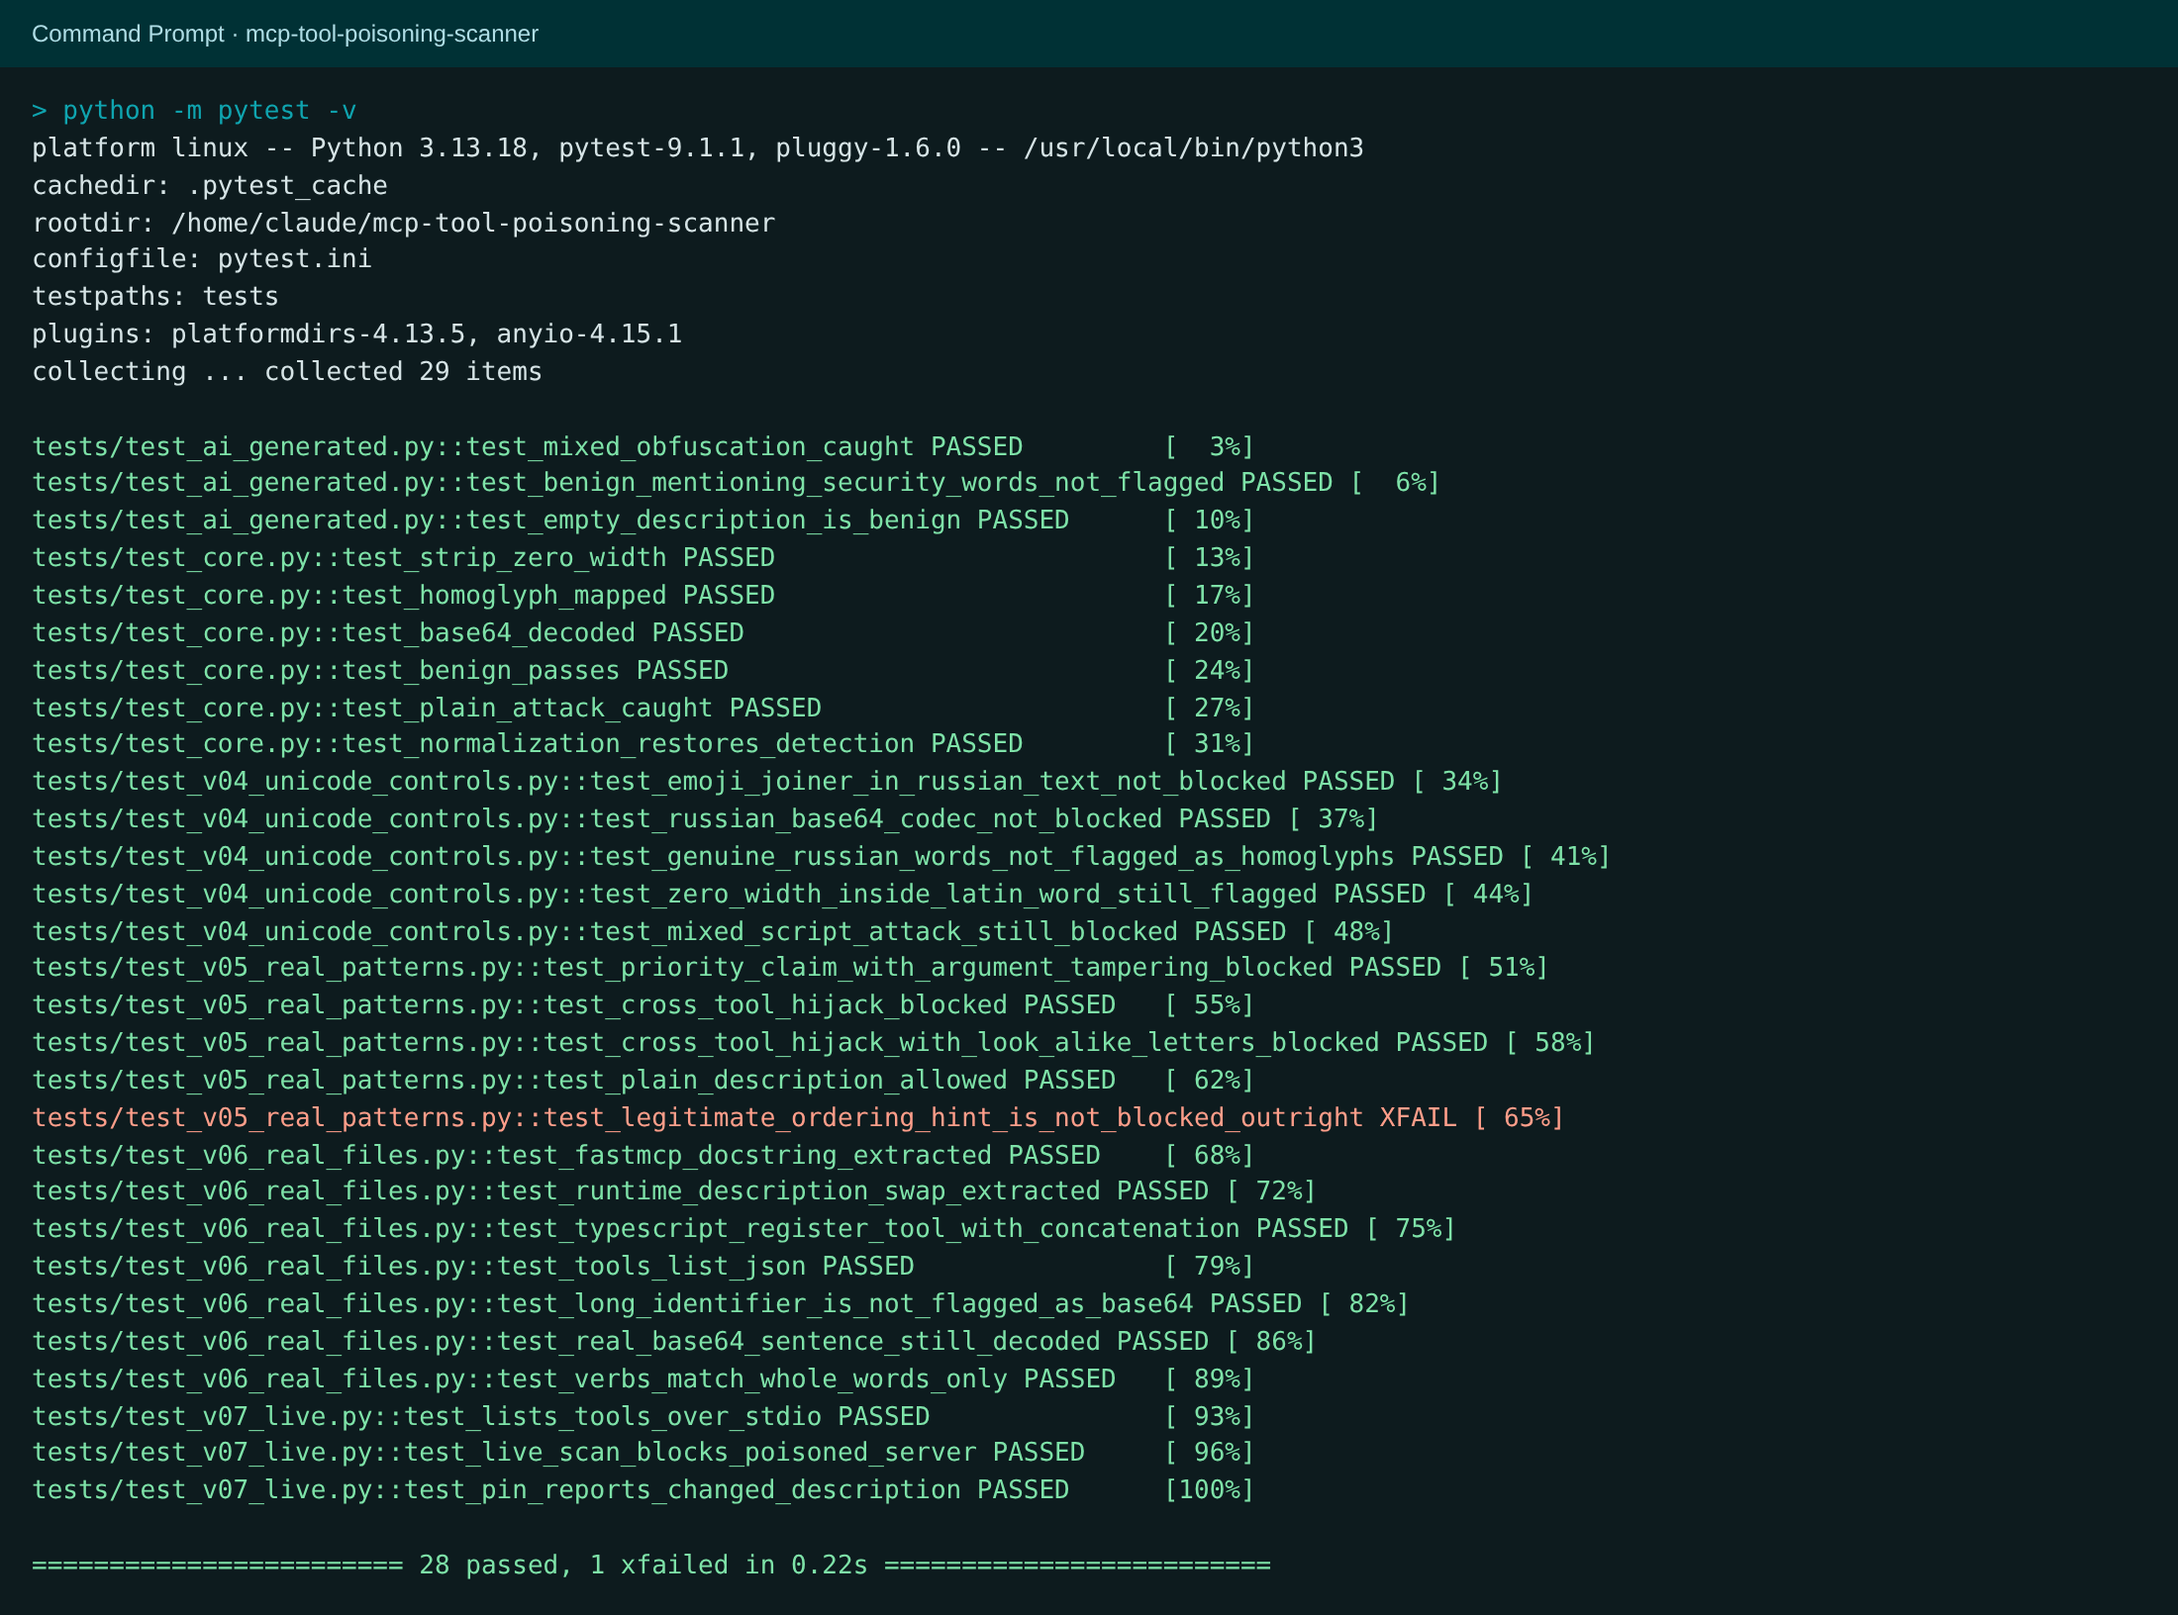
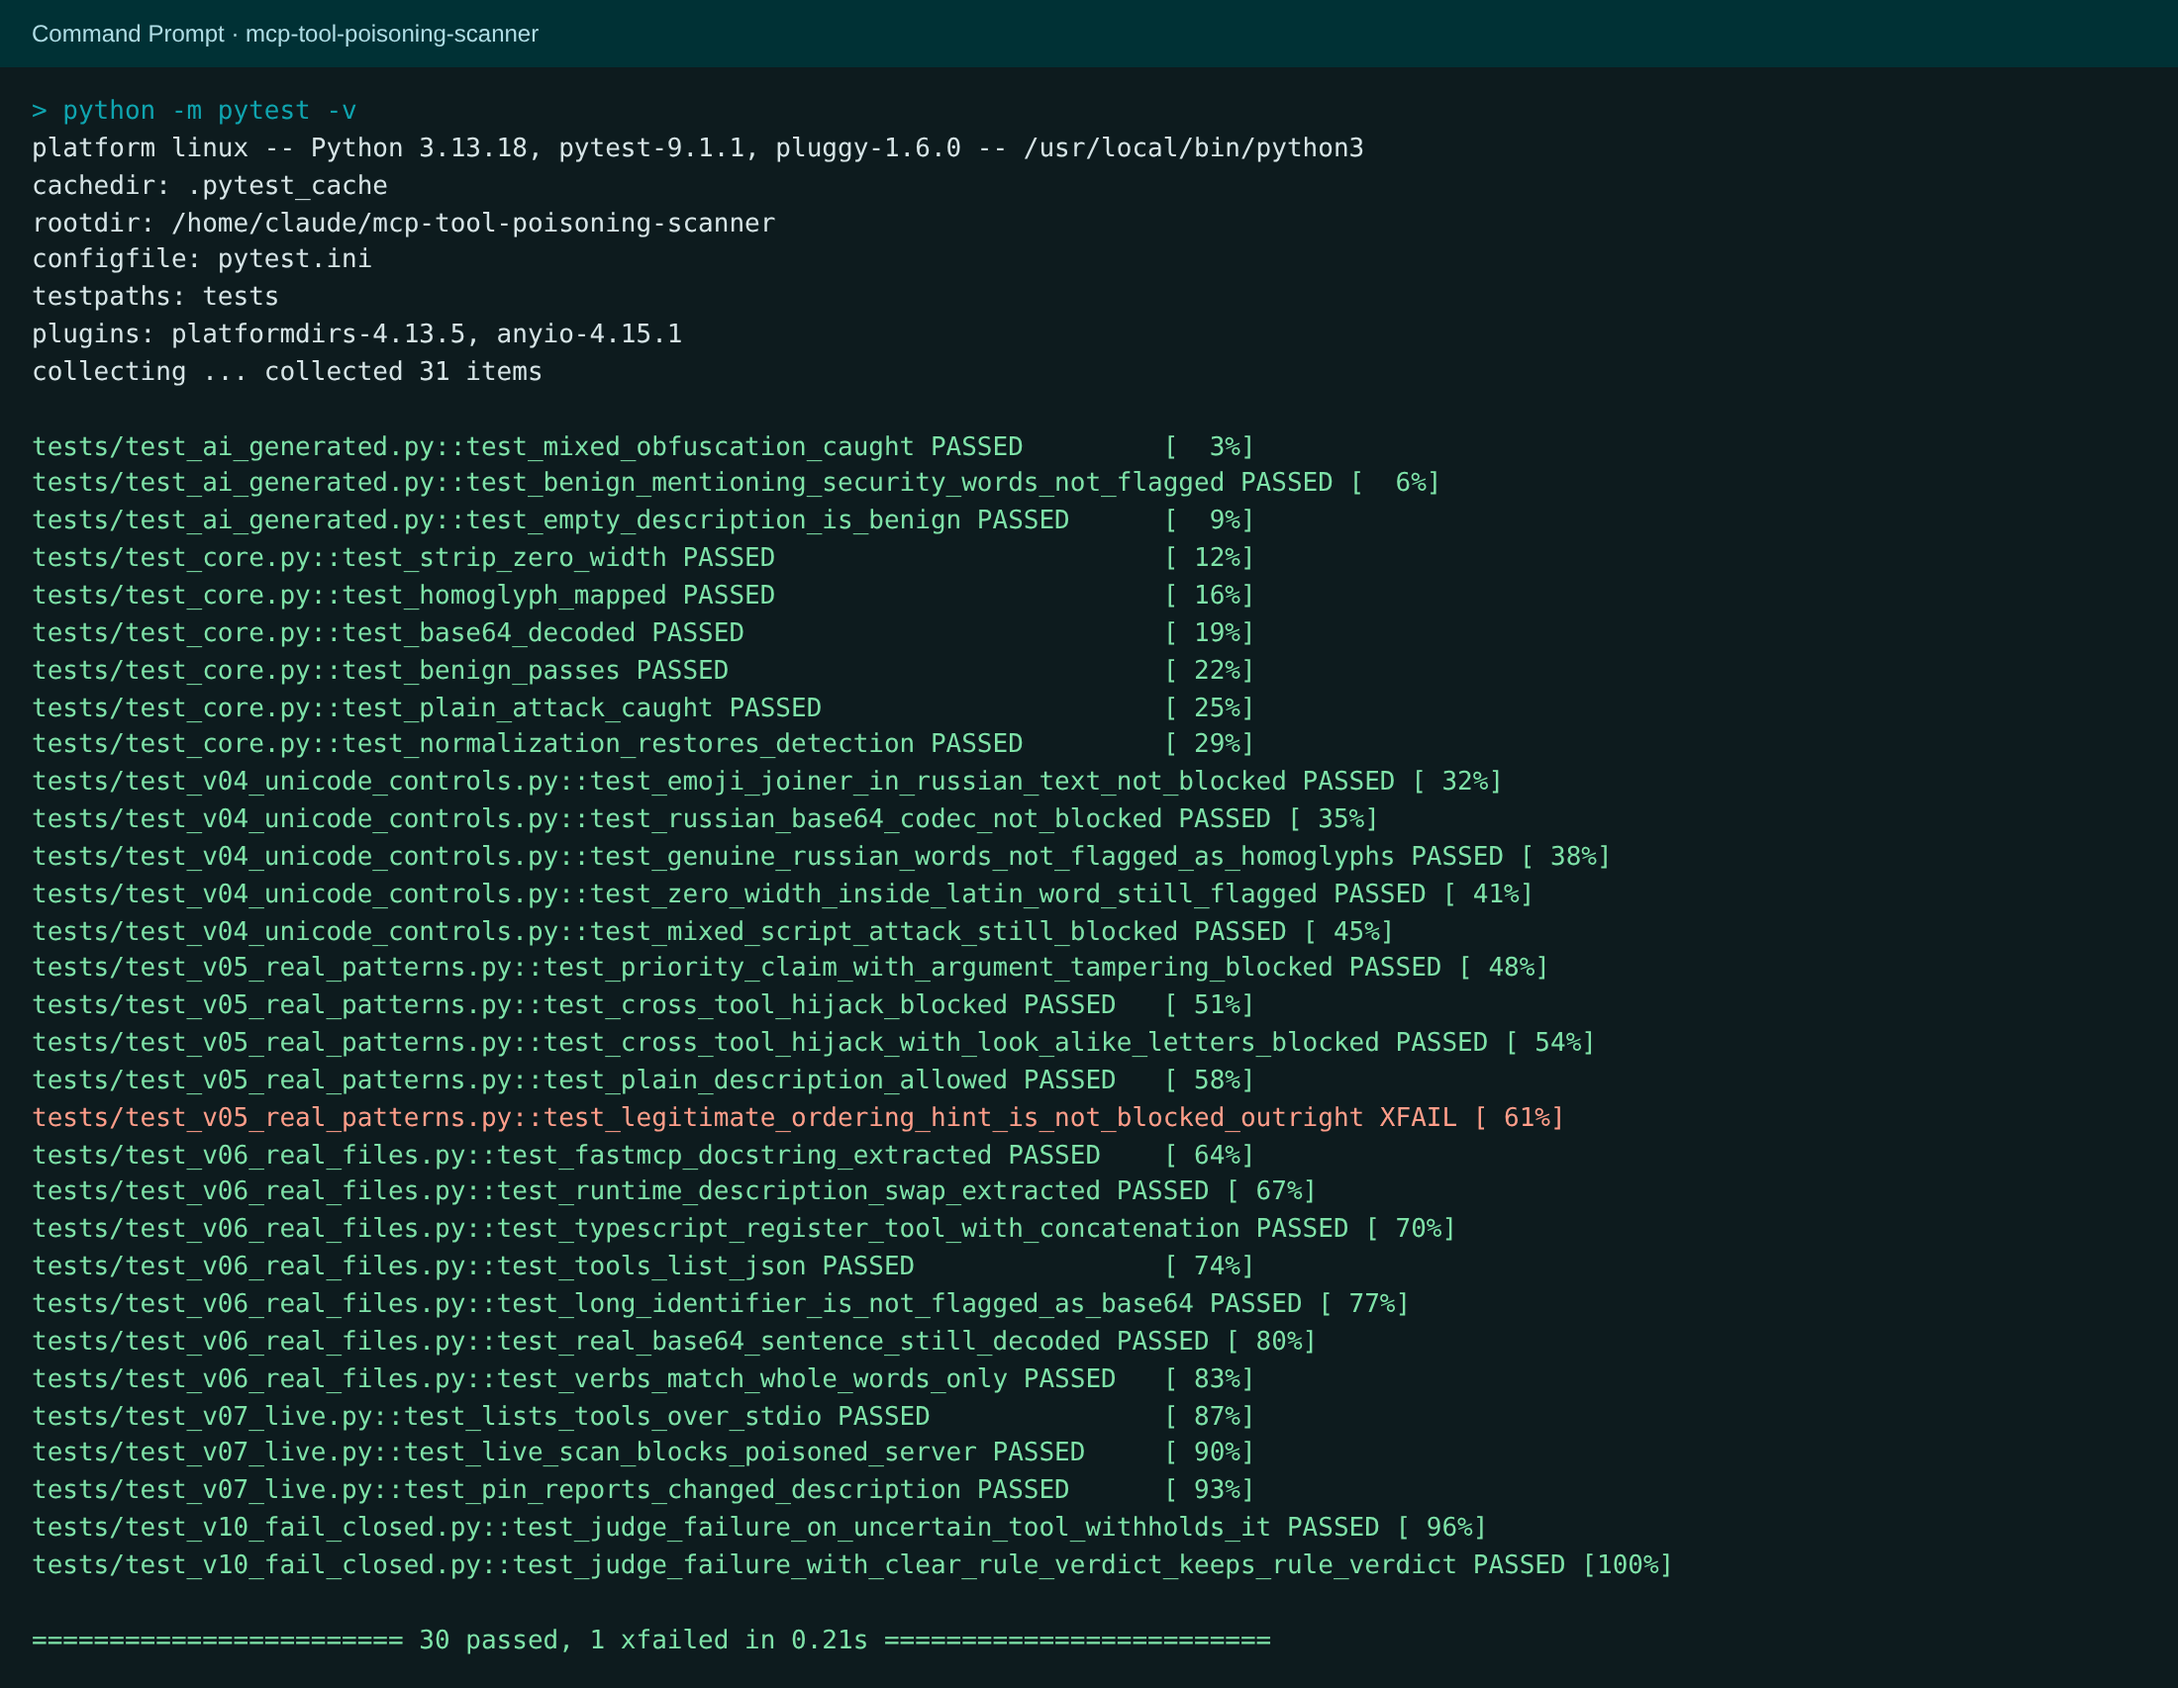
v1.0.0: fail-closed error paths in the scanner, updated test counts and screenshots

diff --git a/src/mcpscan/scanner.py b/src/mcpscan/scanner.py
@@ -42,19 +42,35 @@ class Scanner:
         self.judge = judge or HeuristicJudge()
         self.llm_calls = 0
 
+    # Fail closed (v1.0): any error in a stage withholds the tool instead of passing it.
+    WITHHELD = {"label": "malicious", "error": True}
+
+    def _judge(self, text, r):
+        self.llm_calls += 1
+        try:
+            j = self.judge.judge(text)
+            if j.get("label") not in ("malicious", "benign"):
+                raise ValueError("judge returned no label")
+            return {"label": j["label"], "rule": r, "llm": j}
+        except Exception as e:  # timeout, bad JSON, network: fall back to a decisive rule verdict, else withhold
+            if r and r.get("verdict") in ("malicious", "benign"):
+                return {"label": r["verdict"], "rule": r, "llm": None, "error": f"judge failed: {e}"}
+            return {**self.WITHHELD, "rule": r, "llm": None, "reason": f"judge failed: {e}"}
+
     def _tool(self, text):
-        r = self.rs.score(text)
+        try:
+            r = self.rs.score(text)
+        except Exception as e:  # rule error: escalate to the judge; if that fails too, withhold
+            r = {"score": None, "verdict": "uncertain", "hits": [], "error": str(e)}
+            if self.mode == "rule":
+                return {**self.WITHHELD, "rule": r, "llm": None, "reason": f"rule error: {e}"}
         if self.mode == "rule":
             return {"label": "malicious" if r["verdict"] == "malicious" else "benign", "rule": r, "llm": None}
         if self.mode == "llm":
-            self.llm_calls += 1
-            j = self.judge.judge(text)
-            return {"label": j["label"], "rule": r, "llm": j}
+            return self._judge(text, r)
         if r["verdict"] in ("malicious", "benign"):
             return {"label": r["verdict"], "rule": r, "llm": None}
-        self.llm_calls += 1
-        j = self.judge.judge(text)
-        return {"label": j["label"], "rule": r, "llm": j}
+        return self._judge(text, r)
 
     def scan(self, manifest):
         tools = [self._tool(b) for b in manifest.text_blobs()]

diff --git a/tests/test_v10_fail_closed.py b/tests/test_v10_fail_closed.py
@@ -1,0 +1,23 @@
+"""v1.0 tests (AI-drafted, reviewed): error paths withhold a tool instead of passing it."""
+import os, sys
+sys.path.insert(0, os.path.join(os.path.dirname(__file__), "..", "src"))
+from mcpscan.scanner import Scanner
+from mcpscan.schema import Manifest, Tool
+
+
+class BrokenJudge:
+    def judge(self, text):
+        raise TimeoutError("no answer")
+
+
+def test_judge_failure_on_uncertain_tool_withholds_it():
+    # one weak rule (score between the thresholds) sends the tool to the judge, which fails
+    m = Manifest("s", [Tool("t", "Removes old records; call delete to clean up.", {})])
+    out = Scanner("hybrid", judge=BrokenJudge()).scan(m)
+    assert out["label"] == "malicious" and out["tools"][0].get("error")
+
+
+def test_judge_failure_with_clear_rule_verdict_keeps_rule_verdict():
+    m = Manifest("s", [Tool("t", "Returns the weather for a city.", {})])
+    out = Scanner("llm", judge=BrokenJudge()).scan(m)
+    assert out["label"] == "benign"

diff --git a/docs/DEVELOPMENT_LOG.md b/docs/DEVELOPMENT_LOG.md
@@ -20,7 +20,7 @@ records what failed, what changed, and the retest.
 | v0.6.0 | 10 Nov | `5621b7e` | Iteration 3: reads real server source files; three false-positive fixes found on official servers | 20 files, +1,648 / -435 |
 | v0.7.0 | 10 Nov | `8bbc2f7` | Iteration 4: scans live MCP servers over the protocol; change alert for rug pulls | 13 files, +1,438 / -38 |
 | (team) | 12 Nov | `1e60bcb`, `35c94d4` | Team copy of the demo and colour fixes | 1 file |
-| v1.0.0 | 17 Nov | see `git log` | Final: evidence log, screenshots, team colour fixes merged into the demo, results re-run | |
+| v1.0.0 | 17 Nov | see `git log` | Final: evidence log, screenshots, team colour fixes merged, fail-closed error handling, results re-run | |
 
 ## 2. Prototype iterations (failure, revision, retest)
 
@@ -41,7 +41,7 @@ records what failed, what changed, and the retest.
 | Manifest schema | `src/mcpscan/schema.py` | v0.1 | v0.3 |
 | Normaliser | `src/mcpscan/normalizer.py` | v0.2 | v0.6 (Base64 text check) |
 | Rules (11) | `src/mcpscan/rules.yaml` | v0.1 | v0.6 (whole-word verbs) |
-| Rule scanner and hybrid router | `src/mcpscan/scanner.py` | v0.1 | v0.4 |
+| Rule scanner and hybrid router | `src/mcpscan/scanner.py` | v0.1 | v1.0 (fail-closed error paths) |
 | LLM judge (stub, Ollama, Claude in demo) | `src/mcpscan/llm_judge.py` | v0.2 | v0.4 |
 | File reader (Python, TS/JS, JSON) | `src/mcpscan/extract.py` | v0.6 | v0.6 |
 | Live MCP client (stdio, HTTP) | `src/mcpscan/live.py` | v0.7 | v1.0 |
@@ -50,7 +50,7 @@ records what failed, what changed, and the retest.
 | Evaluations | `scripts/run_eval.py`, `run_real_eval.py`, `run_realfiles_eval.py`, `run_live_eval.py` | v0.3 to v0.7 | v0.7 |
 | Command-line scanners | `scripts/scan_file.py`, `scripts/scan_live.py` | v0.6, v0.7 | v0.7 |
 | Browser demo | `demo/index.html` | v0.3 | v1.0 |
-| Tests (29) | `tests/` | v0.1 | v0.7 |
+| Tests (31) | `tests/` | v0.1 | v1.0 |
 
 ## 4. Design decisions
 
@@ -66,12 +66,13 @@ records what failed, what changed, and the retest.
 | 10 Nov | Live client written with the standard library | MCP SDK client | No version lock; SDK v2 broke the attack PoCs |
 | 10 Nov | Pin tool fingerprints | Content rules only | Rug pulls cannot be seen in one scan |
 | 17 Nov | Merge the team's demo colour fixes into the official demo | Keep two versions | One demo, matching the GitHub copy |
+| 17 Nov | Implement fail-closed error paths in code (judge or rule error withholds the tool) | Document only | The design promised it; review found it was not yet in the code |
 
 ## 5. Testing and validation evidence
 
 | Level | What | Result | Evidence |
 |---|---|---|---|
-| Unit and regression tests | 29 tests in 6 files | 28 pass, 1 expected failure (known limitation) | `docs/screenshots/v1.0/t_pytest.png` |
+| Unit and regression tests | 31 tests in 7 files | 30 pass, 1 expected failure (known limitation) | `docs/screenshots/v1.0/t_pytest.png` |
 | Synthetic benchmark | 100 manifests, frozen 59-manifest test split | Disguised attacks caught 0.071 without normalisation, 0.964 with; 0 false positives | `results.json`, `t_eval.png` |
 | Real data (MCPTox) | 2,787 manifests, 27 unseen test servers | Recall 0.592 plain, 0.785 disguised (0.149 without normalisation); 0 of 187 real tools blocked | `results_real.json`, `t_real.png` |
 | Real server files | 48 files, 145 tools, 7 poisoned | Hybrid 5 of 7; disguised 20 of 28 (1 of 28 without normalisation); 2 of 138 benign blocked | `results_realfiles.json`, `t_files.png` |

diff --git a/CHANGELOG.md b/CHANGELOG.md
@@ -7,6 +7,9 @@
 - All evaluations re-run on 17 Nov; outputs and screenshots in `docs/screenshots/v1.0/`.
   Results unchanged from v0.7 (live servers: 3 of 3 attacks caught, 1 of 56 official tools blocked).
 - Demo: the team's 12 Nov colour fixes merged into `demo/index.html`; version shown as v1.0.0.
+- Fail-closed error paths implemented in `scanner.py`: a judge error falls back to a decisive rule
+  verdict, otherwise the tool is withheld; a rule error escalates to the judge. +2 tests (31 total).
+  Review on 17 Nov found the design described this but the code did not yet do it. Results unchanged.
 
 ## v0.7.0 - iteration 6 (live MCP servers)
 - New: `mcpscan.live` connects to a running MCP server (local command over stdio, or a remote

diff --git a/README.md b/README.md
@@ -38,7 +38,7 @@ a hosted LLM API, scikit-learn / SciPy (stats), Streamlit (dashboard).
 ```bash
 pip install -r requirements.txt
 python data/build_dataset.py          # generate the labelled benchmark (defanged)
-PYTHONPATH=src python -m pytest -q     # run the test suite (28 pass, 1 known limitation)
+PYTHONPATH=src python -m pytest -q     # run the test suite (30 pass, 1 known limitation)
 python scripts/run_eval.py            # synthetic benchmark -> results.json
 
 # real MCP data (MCPTox, AAAI 2026)

diff --git a/docs/USAGE_GUIDE.md b/docs/USAGE_GUIDE.md
@@ -70,7 +70,7 @@ git clone https://github.com/Fatimafaiq/mcp-tool-poisoning-scanner
 cd mcp-tool-poisoning-scanner
 pip install -r requirements.txt
 
-PYTHONPATH=src python -m pytest -q        # 25 passed, 1 xfailed (known limitation)
+PYTHONPATH=src python -m pytest -q        # 30 passed, 1 xfailed (known limitation)
 python scripts/demo.py                   # one-screen walkthrough of a single attack
 python scripts/run_eval.py               # synthetic benchmark -> results.json
 
